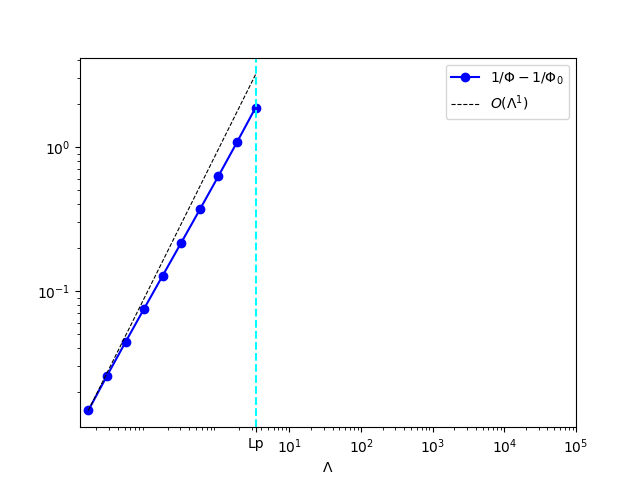
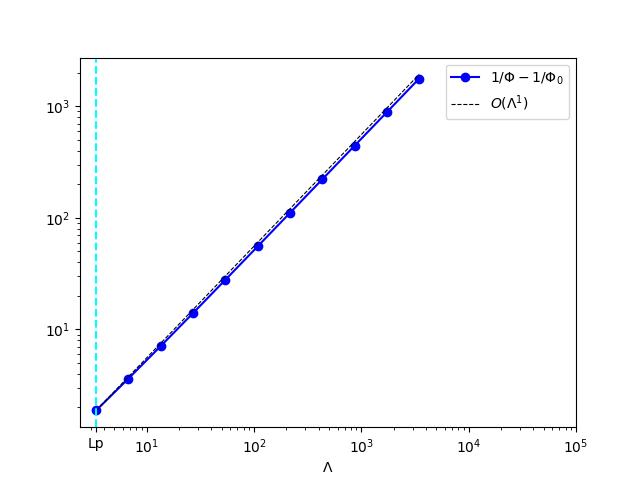
update

diff --git a/Ex2_cube_top_snowflake_v3/plot_results.py b/Ex2_cube_top_snowflake_v3/plot_results.py
@@ -4,7 +4,7 @@ import csv
 import numpy as np
 from collections import defaultdict
 
-nn=1
+nn=3
 # dimension of fractal boundary
 dim_frac=np.log(20)/np.log(4)
 l=(1/4.)**nn
@@ -99,7 +99,7 @@ print(f"Plot for l<Lambda<L_p saved to figures/Phi_Lam_{nn}_R2.png ")
 # plot for Region 3: Lp< Lambda<infty
 # load data
 columns = defaultdict(list) # each value in each column is appended to a list
-with open(f'results/Phi_Lam_{nn}_R2.csv') as f:
+with open(f'results/Phi_Lam_{nn}_R3.csv') as f:
     reader = csv.DictReader(f) # read rows into a dictionary format
     for row in reader: # read a row as {column1: value1, column2: value2,...}
         for (k,v) in row.items(): # go over each column name and value
